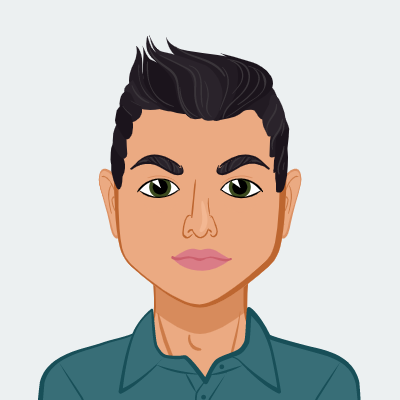
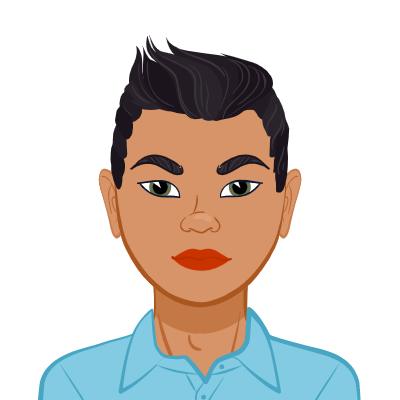
cambiada la foto de matias en nosotros

Changed region(s): [[0.24, 0.27, 0.75, 0.78], [0.09, 0.75, 0.9, 1.0]]

diff --git a/src/css/nosotros.css b/src/css/nosotros.css
@@ -41,7 +41,6 @@
 
   .titulo {
     font-size: 40px;
-    margin-right: -500px;
   }
   .nombreCompañero {
     font-size: 38px;
@@ -59,17 +58,15 @@
 @media (min-width: 320px) and (max-width: 740px) {
   .titulo {
     font-size: 30px;
-    margin-left: -300px;
-
   }
 
   .nosotros {
-    background-size: auto;
+    background-size: cover;
 
   }
   .titulo {
     font-size: 18px;
-    margin-right: 15px;
+    margin-right: 10px;
   }
   .nombreCompañero {
     font-size: 18px;

diff --git a/src/components/common/Nav.jsx b/src/components/common/Nav.jsx
@@ -1,10 +1,6 @@
 import { Button, Container, Nav, Navbar } from "react-bootstrap";
 import { Link, useNavigate } from "react-router-dom";
 import "../../css/navbar.css";
-import Container from 'react-bootstrap/Container';
-import Nav from 'react-bootstrap/Nav';
-import Navbar from 'react-bootstrap/Navbar';
-import { Link, NavLink } from "react-router-dom";
 
 
 
